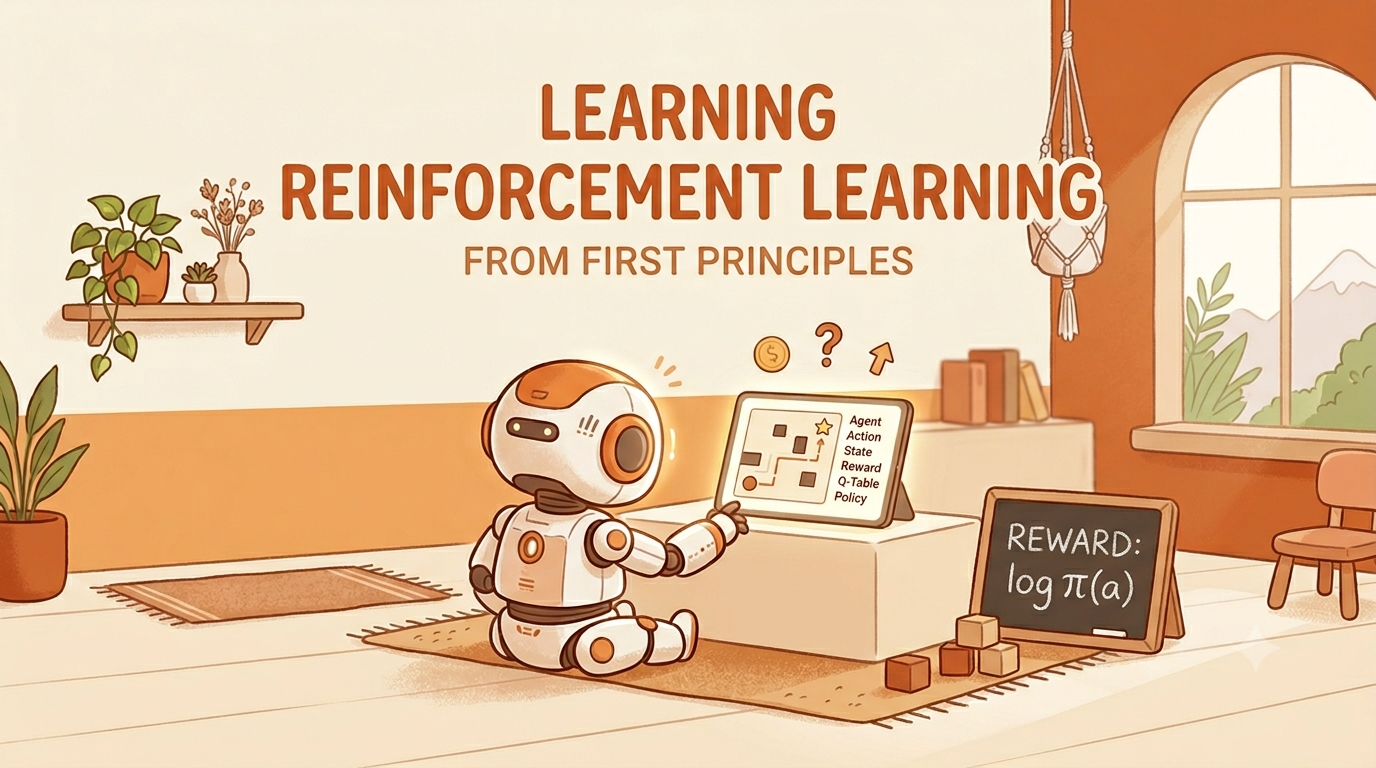
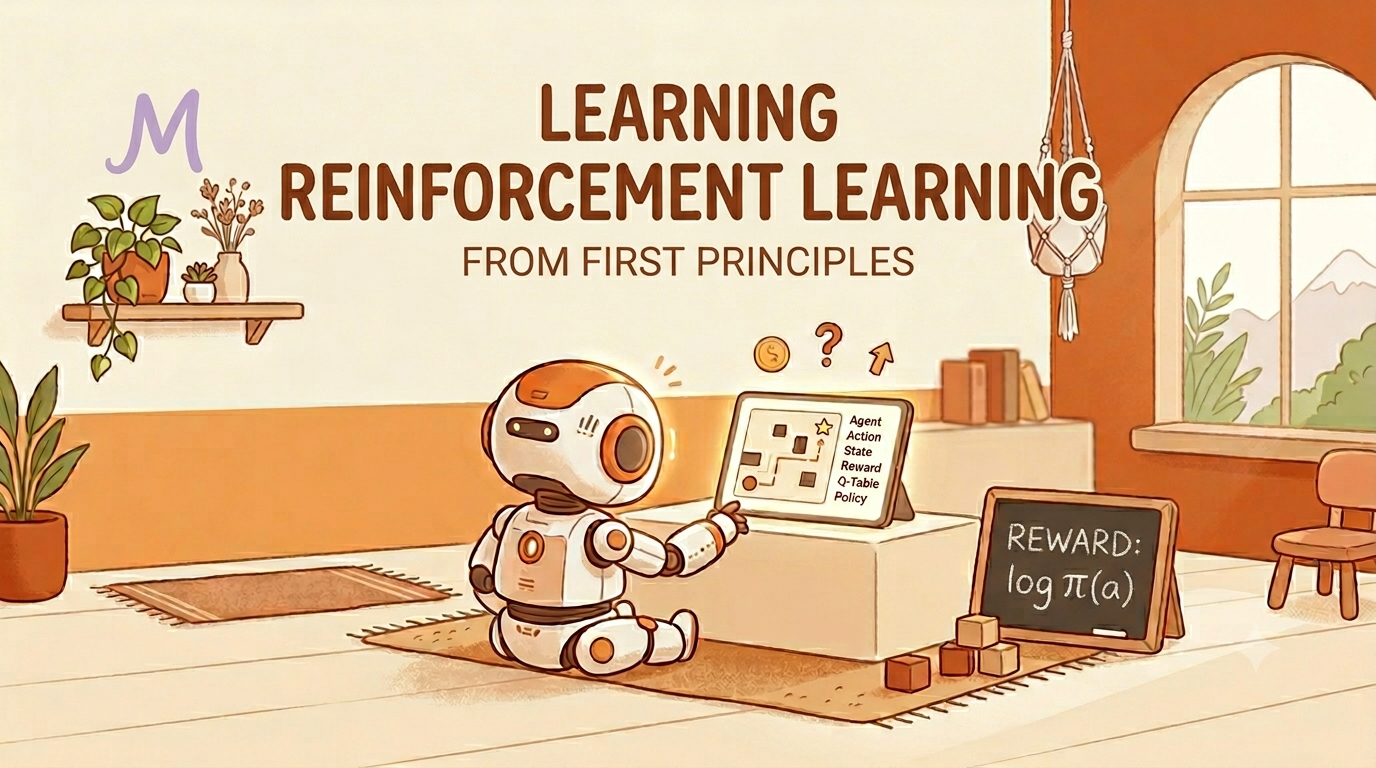
update hero image

diff --git a/docs/rl_basics.md b/docs/rl_basics.md
@@ -403,7 +403,7 @@ Step back and look at what that critic costs. It's a second model roughly as lar
 
 3. **Token-Level Loss**: divides the loss by total tokens, not total sequences. Without this, a 50-token response and a 500-token response each count as "one example," which quietly biases the model toward short answers.
 
-4. **Overlong Reward Shaping**: if a response hits the length limit mid-generation and gets cut off, a hard penalty is unfair — the model had no way to know it was about to be truncated. DAPO softens or removes the penalty for truncated responses to keep the reward signal clean.
+4. **Overlong Reward Shaping**: if a response hits the length limit mid-generation and gets cut off, a hard penalty is unfair, the model had no way to know it was about to be truncated. DAPO softens or removes the penalty for truncated responses to keep the reward signal clean.
 
 These fixes matter most when training on long chain-of-thought tasks at scale. For short, simple tasks with a clean verifiable reward, you can usually skip them.
 
